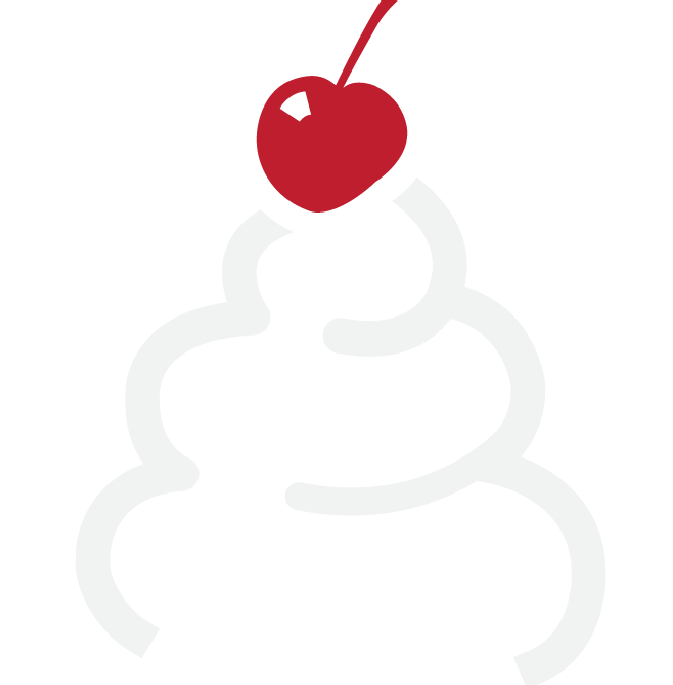
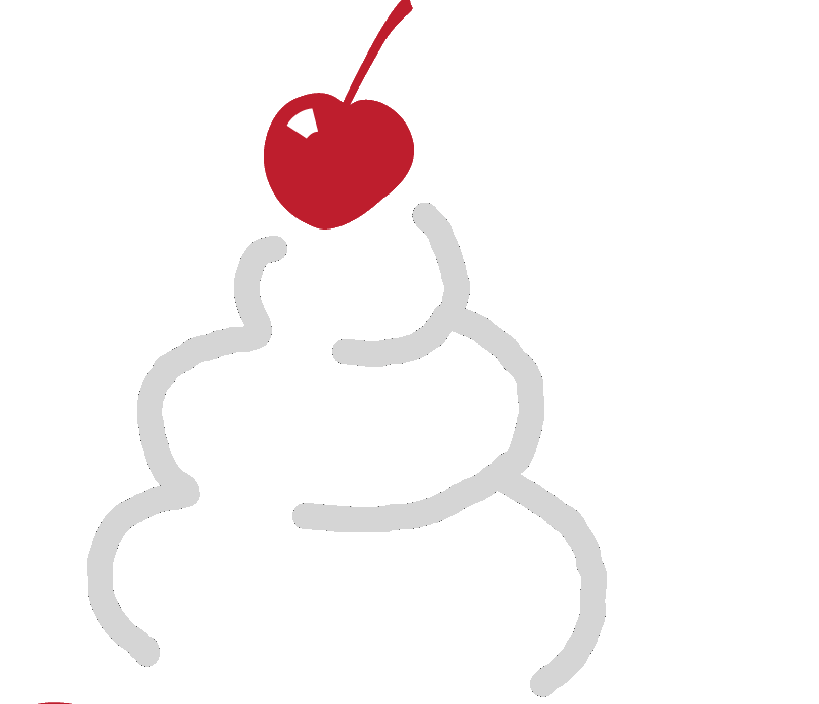
new 'home' image

Changed region(s): [[0.0936, 0.0, 0.7489, 1.0], [0.0624, 0.981, 0.0936, 1.0]]

diff --git a/index.html b/index.html
@@ -16,7 +16,7 @@
 
 		<div class="container">
 
-			<img id="title_img" src="img/CoT_no_words_1.png" width="125" alt="Cherry on Top on Main" />
+			<img id="title_img" src="img/CoT_no_words_2.png" width="125" alt="Cherry on Top on Main" />
 			<div class="row-fluid">
 			  <div class="span12 page-title">
 				  <span class="page-title-text">Cherry on Top</span>
